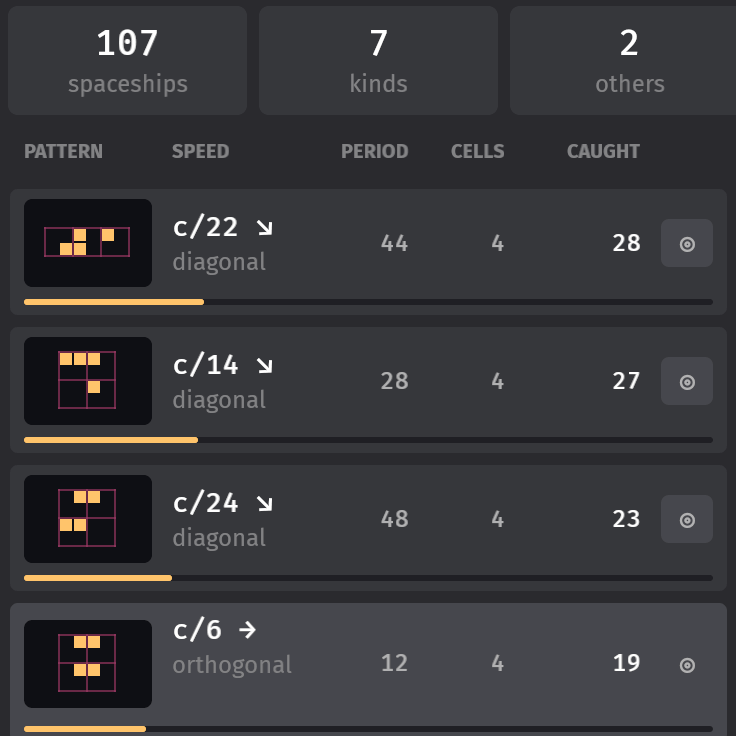
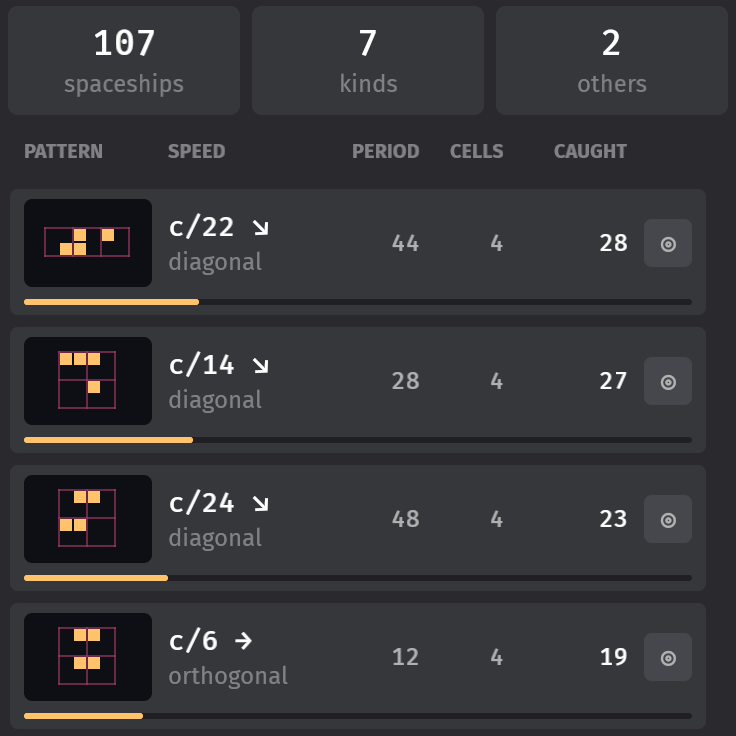
Keep the panels apart, let a close the analysis, and show the band on cells
The spaceship list's speed column took what the fixed columns left,
which was room for `c/6 →` but not for `c/184 ↘`: such a row would
not shrink below its content, the card grew to fit it and swallowed
the gutter, so the list and the analysis panel touched whenever a slow
ship had been caught. The columns make room now, a speed too long for
it is cut rather than let widen the row, and a card can never grow
past its panel.

The a key shows and hides the analysis panel as e and s do theirs; it
opens choosing a pattern, and the Analyse button starts and stops the
choosing on its own. The band around a pattern being chosen draws a
dark seam along its edge with the outline just outside, so that it
shows against live cells on either side of it.

diff --git a/src/catcher.rs b/src/catcher.rs
@@ -52,12 +52,14 @@ const LISTED: usize = 200;
 /// When more than this many departures wait to be identified, the oldest are let go.
 const QUEUE: usize = 4096;
 
-/// Column widths of the list, shared by its header and its rows; the speed takes the rest.
+/// Column widths of the list, shared by its header and its rows; the speed takes the rest,
+/// which must be room enough for the likes of `2c/184 ↘`, or the row would widen the panel.
 const PICTURE: (f32, f32) = (64.0, 44.0);
-const PERIOD_COLUMN: f32 = 48.0;
-const CELLS_COLUMN: f32 = 38.0;
-const CAUGHT_COLUMN: f32 = 58.0;
-const ANALYSE_COLUMN: f32 = 26.0;
+const PERIOD_COLUMN: f32 = 44.0;
+const CELLS_COLUMN: f32 = 34.0;
+const CAUGHT_COLUMN: f32 = 54.0;
+const ANALYSE_COLUMN: f32 = 24.0;
+const COLUMN_GAP: f32 = 8.0;
 
 #[derive(Resource, Default)]
 pub struct Catcher {
@@ -226,7 +228,7 @@ pub fn catcher_panel() -> impl Scene {
                 Node {
                     flex_direction: FlexDirection::Row,
                     align_items: AlignItems::Center,
-                    column_gap: px(10),
+                    column_gap: px(COLUMN_GAP),
                     padding: UiRect { left: px(8), right: px(18) },
                 }
                 Children [
@@ -401,15 +403,19 @@ fn kind_row(index: usize, kind: &Kind, ships: u64) -> impl Scene {
                 Node {
                     flex_direction: FlexDirection::Row,
                     align_items: AlignItems::Center,
-                    column_gap: px(10),
+                    column_gap: px(COLUMN_GAP),
                 }
                 template_value(Pickable::IGNORE)
                 Children [
                     picture(&motion.canonical),
                     (
+                        // Whatever is left; a speed too long for it is cut rather than let
+                        // widen the row, and the panel with it.
                         Node {
                             flex_grow: 1.0,
                             flex_basis: px(0),
+                            min_width: px(0),
+                            overflow: Overflow::clip(),
                             flex_direction: FlexDirection::Column,
                             row_gap: px(2),
                         }

diff --git a/src/ui.rs b/src/ui.rs
@@ -451,9 +451,12 @@ pub(crate) fn side_panel(width: f32, body: impl SceneList) -> impl Scene {
             padding: UiRect { top: px(GUTTER), bottom: px(GUTTER), right: px(GUTTER) },
         }
         Children [(
+            // A card is as wide as its panel, whatever is in it: content that does not fit
+            // overflows the card, rather than the card the panel.
             Node {
                 flex_grow: 1.0,
                 flex_basis: px(0),
+                min_width: px(0),
                 flex_direction: FlexDirection::Column,
                 padding: px(14),
                 row_gap: px(12),
@@ -564,11 +567,17 @@ fn label_with_key(label: &'static str, action: Action) -> Box<dyn SceneList> {
 
 /// A button that triggers `action`, labelled with its shortcut.
 fn action_button(label: &'static str, name: &'static str, action: Action) -> impl Scene {
+    action_button_hinted(label, name, action, action)
+}
+
+/// A button that triggers `action`, labelled with the shortcut of `hinted`: for a button
+/// whose key does the same thing as far as a glance tells, and more besides.
+fn action_button_hinted(label: &'static str, name: &'static str, action: Action, hinted: Action) -> impl Scene {
     let name = Name::new(name);
     let does = Does(action);
     bsn! {
         @FeathersButton {
-            @caption: {label_with_key(label, action)},
+            @caption: {label_with_key(label, hinted)},
         }
         Node { flex_grow: 1.0 }
         template_value(name)
@@ -1001,7 +1010,7 @@ fn pattern_card() -> impl Scene {
             }
             Children [
                 (
-                    action_button("Analyse", "Analyse", Action::Analyse)
+                    action_button_hinted("Analyse", "Analyse", Action::Analyse, Action::Analysis)
                     Node { flex_grow: 0.0 }
                 ),
                 (

diff --git a/src/actions.rs b/src/actions.rs
@@ -52,6 +52,8 @@ pub enum Action {
     EditRule,
     /// Show or hide the list of the spaceships caught.
     Spaceships,
+    /// Show or hide the analysis panel; it opens choosing a pattern on the grid.
+    Analysis,
     /// Choose a pattern on the grid to analyse, or stop choosing.
     Analyse,
 }
@@ -121,7 +123,7 @@ const KEYS: [(&str, Action); 25] = [
     ("k", Action::Flip(Toggle::Catching)),
     ("s", Action::Spaceships),
     ("e", Action::EditRule),
-    ("a", Action::Analyse),
+    ("a", Action::Analysis),
 ];
 
 impl Action {
@@ -258,13 +260,17 @@ fn perform(
         }
         Action::EditRule => editor.toggle(),
         Action::Spaceships => catcher.toggle(),
-        Action::Analyse => {
-            analysis.choose();
-            // A band is drawn with the left button, which a stamp would answer to.
-            if analysis.selecting {
-                stamp.let_go();
+        Action::Analysis => {
+            analysis.toggle();
+            if analysis.is_open() {
+                analysis.start_choosing();
             }
         }
+        Action::Analyse => analysis.choose(),
+    }
+    // A band is drawn with the left button, which a stamp would answer to.
+    if analysis.selecting {
+        stamp.let_go();
     }
 }
 

diff --git a/src/analysis.rs b/src/analysis.rs
@@ -114,15 +114,25 @@ impl Analysis {
         }
     }
 
+    pub fn is_open(&self) -> bool {
+        self.open
+    }
+
     /// Choosing a pattern on the grid begins, or is called off; it opens the panel, which
     /// says what to do.
     pub fn choose(&mut self) {
-        self.selecting = !self.selecting;
+        if self.selecting {
+            self.stop_choosing();
+        } else {
+            self.start_choosing();
+        }
+    }
+
+    pub fn start_choosing(&mut self) {
+        self.selecting = true;
         self.band = None;
         self.note = None;
-        if self.selecting {
-            self.open = true;
-        }
+        self.open = true;
     }
 
     pub fn stop_choosing(&mut self) {

diff --git a/README.md b/README.md
@@ -268,7 +268,8 @@ so they follow the keyboard layout; with Ctrl, Alt or Super held they do nothing
 | catch the spaceships that reach the edge | *Catch spaceships* | `k` |
 | show / hide the list of spaceships caught | **Spaceships** | `s` |
 | pick up a caught spaceship, put it down, let go of it | a row of the list; a click on the grid; `Escape` or a right click | |
-| analyse a pattern | **Analyse**, then a drag around it; or ◎ in a row of the spaceship list | `a`, then left-drag |
+| show / hide the analysis panel; it opens choosing a pattern | | `a` |
+| choose a pattern to analyse: a drag around it | **Analyse** (again: stop choosing); or ◎ in a row of the spaceship list | left-drag |
 | paint | | left-drag: paints the opposite of the first cell touched; with `shift` it erases |
 
 Sliders jump to where you click and then follow the pointer; the wheel over a slider steps it to
@@ -360,9 +361,9 @@ What left or was caught is gone: stepping backwards does not bring it back.
 
 ### Analysing a pattern
 
-**Analyse** (`a`) and a drag around some cells of the grid studies them on their own: the pattern
-is run on an unbounded plane until it is back in its starting shape, as the catcher does with what
-reaches the edge, and the *Analysis* panel says what it is.
+**Analyse** (or `a`, which opens the panel) and a drag around some cells of the grid studies them
+on their own: the pattern is run on an unbounded plane until it is back in its starting shape, as
+the catcher does with what reaches the edge, and the *Analysis* panel says what it is.
 
 * A **still life**, an **oscillator** or a **spaceship**, with its period, how far it moves in
   one, and its speed; whether it is one of its own turns or mirrors sooner than that (a glider is
@@ -384,8 +385,9 @@ row of the spaceship list sends that kind over. The study is a record: it stays 
 changes, under the rule named next to the title, and **Place** then puts the same cells down under
 the rule now set.
 
-Choosing stays on after a study, so the next drag studies the next pattern; `Escape`, `a` again,
-or picking a pattern up ends it, and left-drag paints again.
+Choosing stays on after a study, so the next drag studies the next pattern; `Escape`, **Analyse**
+again, or picking a pattern up ends it, and left-drag paints again. `a` puts the panel away, as
+`e` and `s` do theirs, and brings it back choosing.
 
 <p align="center">
   <img src="docs/analysis.png" width="396" alt="The analysis panel: the shape of Conway's glider in a small world of its own, and what the study found: a spaceship of period 15 moving one cell diagonally at c/15, 5 cells, no symmetry, one piece.">
